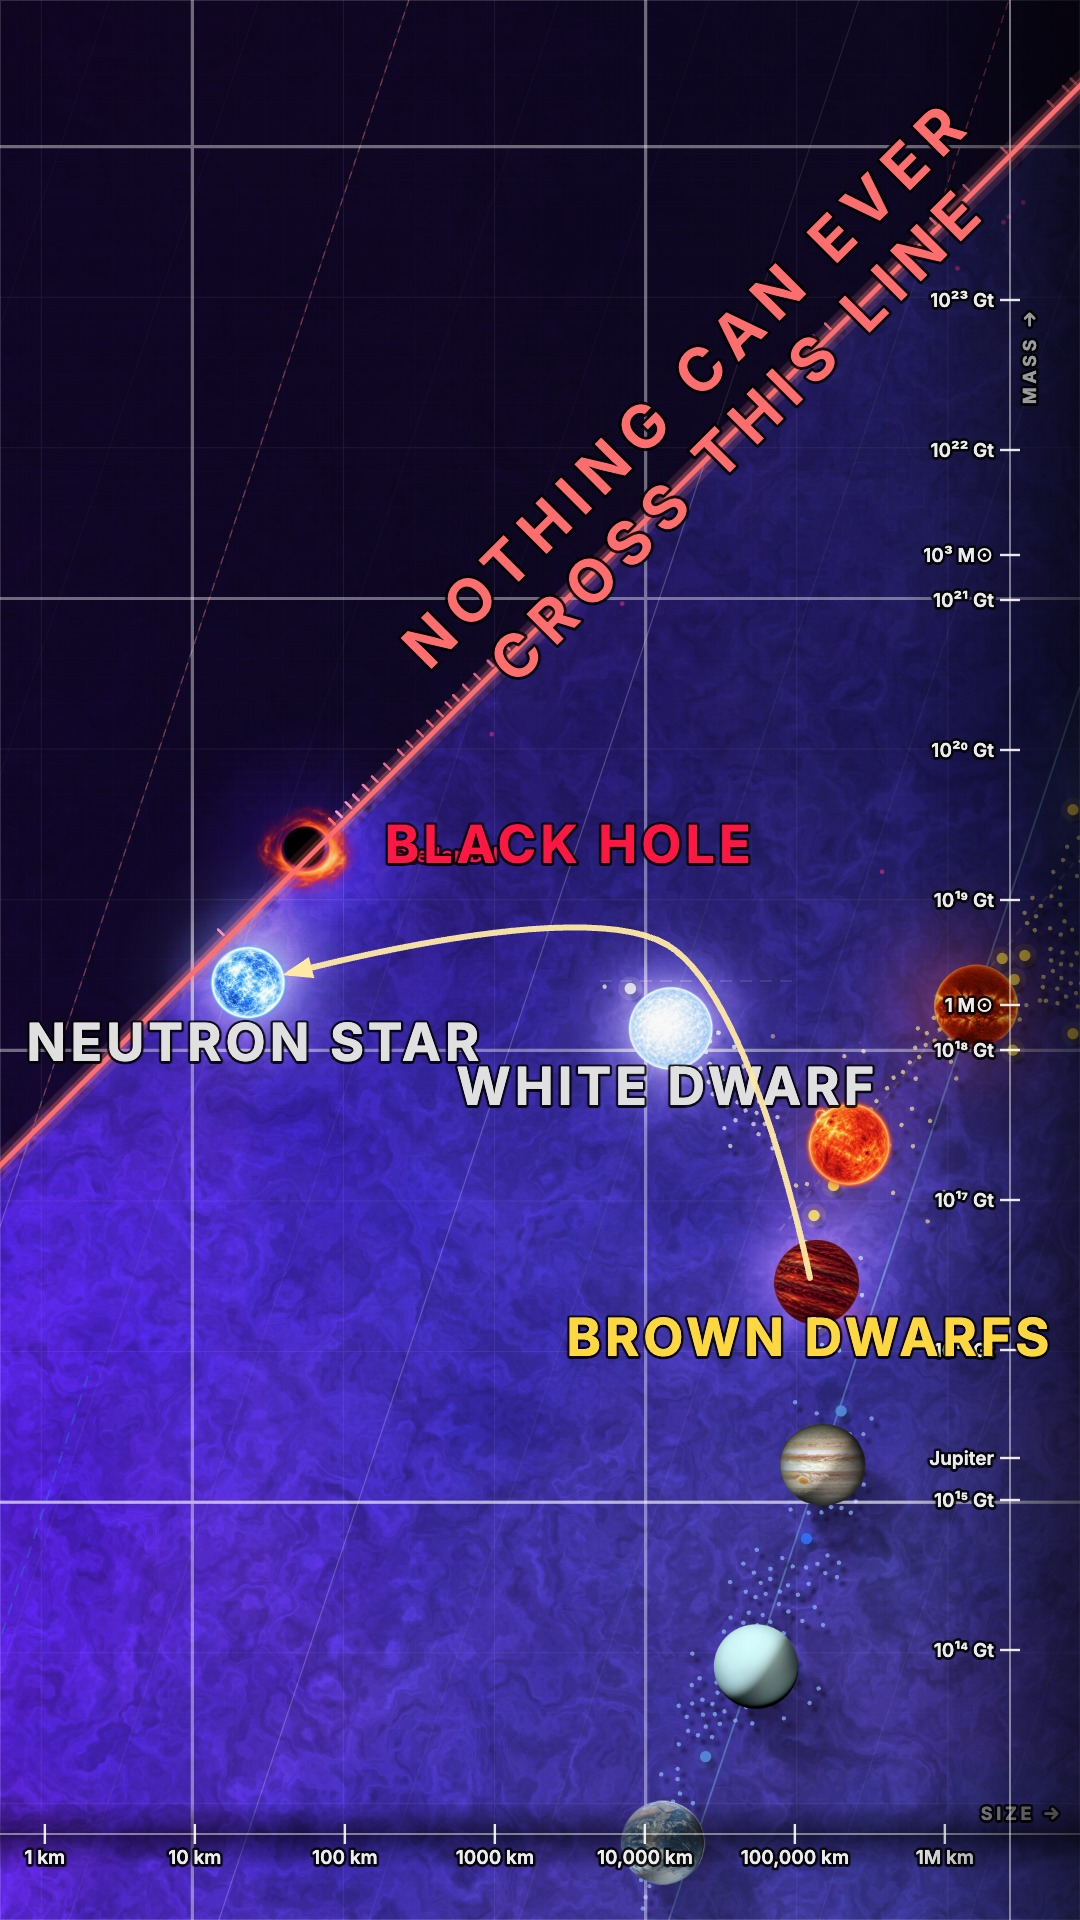
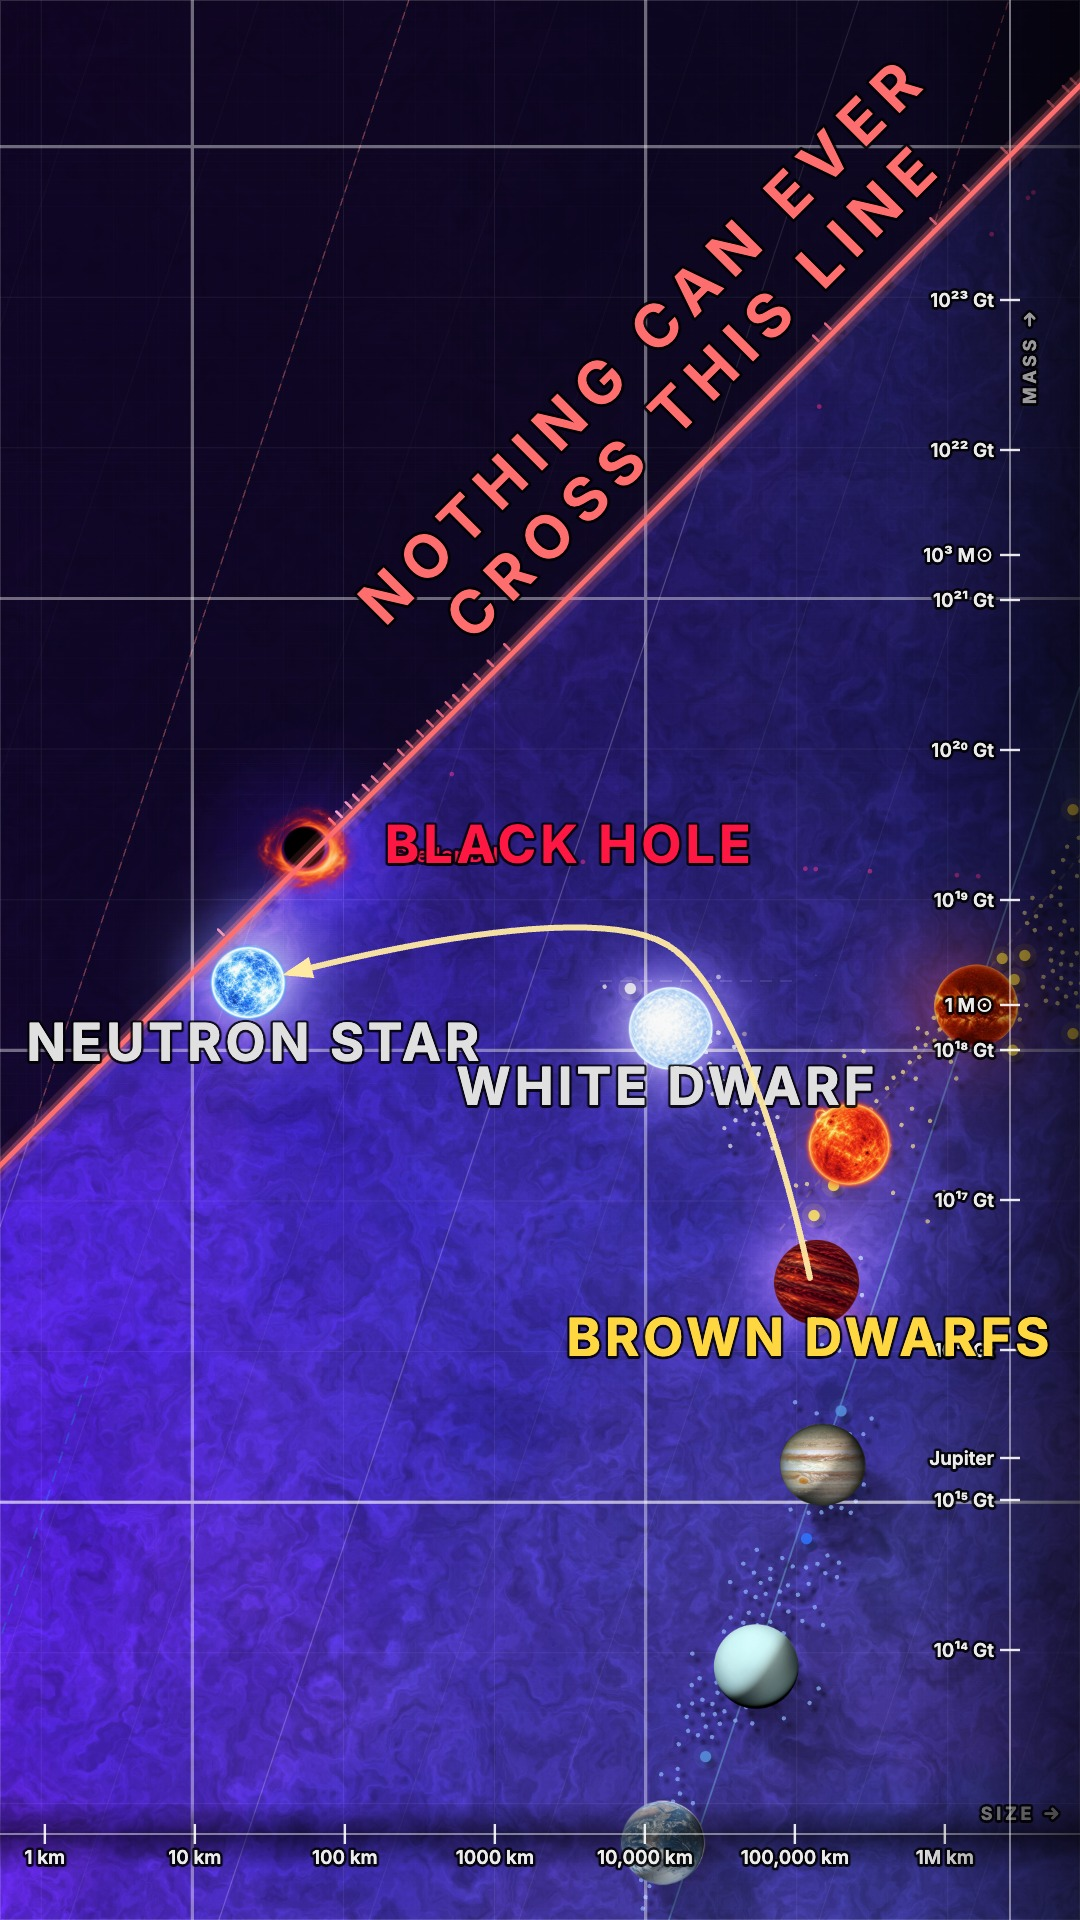
Thumbnails: "Everything" low between the water and air lines; "Nothing can ever cross this line" wholly on the dark side; the tools documented
A line's stacked label steps by its own font size (labelOffset: px further off). docs/narration.md
"Thumbnails": the scene's poster, npm run thumbnails -- <take>, a second checkout while renders
run. youtube-publish.py --update sends the thumbnail again too.

Changed region(s): [[0.3361, 0.0312, 0.9167, 0.375]]

diff --git a/src/narration-scenes/short-04-black-holes.js b/src/narration-scenes/short-04-black-holes.js
@@ -92,7 +92,7 @@ export default {
   // the YouTube thumbnail (scripts/narration-poster.mjs): in close on a white dwarf, a neutron star
   // and the black-hole line they lead to, and the question (the author, 2026-10-30)
   poster: { at: 3, set: { forceIcons: ["PSR J0030+0451", "White Dwarf", "Stellar BH", "T Brown Dwarf", "L Brown Dwarf"], hideLabels: ["T Brown Dwarf"] }, cues: [{ t: 0, cam: { r: 8.0, m: 33.6, span: 7.2 }, dur: 0.1, drift: 0, hl: [
-    { line: "schwarzschild", draw: 0.01, label: "nothing can ever\ncross this line", size: 30, labelAt: [9.3, 37.13] },
+    { line: "schwarzschild", draw: 0.01, label: "nothing can ever\ncross this line", size: 30, labelOffset: 8, labelAt: [9.3, 37.13] },
     { obj: "T Brown Dwarf", label: "brown dwarfs", place: "below", labelSize: 26 },
     { obj: "White Dwarf", label: "white dwarf", place: "below", labelSize: 26 },
     { obj: "PSR J0030+0451", label: "neutron star", place: "below", labelSize: 26 },

diff --git a/src/narration.js b/src/narration.js
@@ -1416,7 +1416,8 @@ export async function startNarration(app) {
       // "\n" stacks the label in lines above the line
       const lines = h.label.toUpperCase().split("\n");
       const t = el.append("text").attr("class", "narr-linelabel")
-        .attr("transform", `translate(${mid[0]},${mid[1]}) rotate(${a2}) translate(0,${-10 - 13 * (lines.length - 1)})`)
+        // stacked lines step by the font's own line height; labelOffset: px further off the line
+        .attr("transform", `translate(${mid[0]},${mid[1]}) rotate(${a2}) translate(0,${-10 - (h.labelOffset ?? 0) - (h.size ? 1.2 * h.size : 13) * (lines.length - 1)})`)
         .attr("text-anchor", "middle").attr("fill", col).attr("opacity", prog);
       if (h.size) t.style("font-size", `${h.size}px`);   // px (a thumbnail's bigger labels)
       lines.forEach((ln, i) => t.append("tspan").attr("x", 0).attr("dy", i ? "1.2em" : 0).text(ln));

diff --git a/src/narration-scenes/short-02-up-the-line.js b/src/narration-scenes/short-02-up-the-line.js
@@ -72,7 +72,7 @@ export default {
   // the YouTube thumbnail (scripts/narration-poster.mjs): in close on the water and air lines,
   // full of animals, balloons and aircraft, each side named (the author, 2026-10-30)
   poster: { at: 3, set: { iconDensity: 100 }, cues: [{ t: 0, cam: { r: 2.25, m: 6.3, span: 3.2 }, dur: 0.1, drift: 0, forceIcons: ANIMALS, hl: [
-    { ...WATER, draw: 0.01, label: "everything is here", size: 34, labelAt: [2.35, 7.67] }, { ...AIR, draw: 0.01 },
+    { ...WATER, draw: 0.01, label: "everything", size: 34, labelAt: [2.08, 4.7] }, { ...AIR, draw: 0.01 },
     { side: "left", label: "sinks", labelX: 0.2, labelY: 0.45, labelSize: 34 },
     { side: "right", label: "floats\nin water", labelX: 0.7, labelY: 0.3, labelSize: 30 },
     { side: "right", of: "air", color: "#a5d6a7", label: "floats\nin air", labelX: 0.78, labelY: 0.8, labelSize: 30 }] }] },

diff --git a/scripts/youtube-publish.py b/scripts/youtube-publish.py
@@ -5,7 +5,7 @@
     python3 scripts/youtube-publish.py --upload        # upload every video not yet uploaded
     python3 scripts/youtube-publish.py --upload --only short-01-hook
     python3 scripts/youtube-publish.py --captions-only # (re)write the .srt files, no upload
-    python3 scripts/youtube-publish.py --update        # rewrite titles/descriptions of uploaded videos
+    python3 scripts/youtube-publish.py --update        # rewrite titles/descriptions/thumbnails of uploaded videos
 
 Reads video/youtube.json (titles, blurbs, music, privacy, schedule), builds each
 description from video/DESCRIPTION.md and the track's credit (video/music/CREDITS.md),
@@ -177,7 +177,7 @@ def main():
                     help="upload again even if already uploaded; the earlier upload is deleted if it is still private")
     ap.add_argument("--captions-only", action="store_true", help="write output/videos/<take>.srt and stop")
     ap.add_argument("--update", action="store_true",
-                    help="rewrite title, description and tags of videos already uploaded (after editing youtube.json or DESCRIPTION.md)")
+                    help="rewrite title, description, tags and thumbnail of videos already uploaded (after editing youtube.json, DESCRIPTION.md or a poster)")
     a = ap.parse_args()
     m = load(MANIFEST)
     cfg, state = m["defaults"], load(STATE, {})
@@ -192,6 +192,10 @@ def main():
             cur = yt.videos().list(part="snippet", id=vid).execute()["items"][0]["snippet"]
             cur.update(title=v["title"], description=description(v), tags=v.get("tags", cfg["tags"]))
             yt.videos().update(part="snippet", body={"id": vid, "snippet": cur}).execute()
+            thumb = os.path.join(ROOT, "video", "thumbnails", f"{v['take']}.jpg")   # a re-made thumbnail too
+            if os.path.exists(thumb):
+                from googleapiclient.http import MediaFileUpload
+                yt.thumbnails().set(videoId=vid, media_body=MediaFileUpload(thumb, mimetype="image/jpeg")).execute()
             print(f"{v['take']}: updated https://youtu.be/{vid}")
         return
     yt = service() if a.upload and not a.captions_only else None

diff --git a/docs/narration.md b/docs/narration.md
@@ -283,6 +283,35 @@ and `window.__narr.pending()` counts the layer until it has drawn.
   whips), a static production build served instead of the dev server (faster page loads), and
   capturing at a lower JPEG quality for the sub-frames only.
 
+## Thumbnails
+
+Each short's YouTube thumbnail is a shot of the live chart, written in its scene as `poster`
+(see [Scene fields](#scene-fields)): a camera, highlights and labels, as cues, with no captions or
+narration. To change one, edit the scene's `poster` and run
+
+```
+node scripts/narration-poster.mjs short-01-hook [short-02-up-the-line …]
+```
+
+with the dev server up (`BASE`, default `http://localhost:5184`, the "shorts" preview; Chrome
+from `CHROME`). It stills each shot at 1080×1920 into `video/thumbnails/<take>.jpg`, which
+`scripts/youtube-publish.py` uploads, and sends again for videos already up with `--update --only <take>`. To look at a shot live, open
+`/?narrate=<take>&poster=1&captions=0&autoplay=0` and pause at the poster's `at`.
+Editing a scene hot-reloads every page of that dev server, a render's too: while a render runs,
+work on thumbnails in a second checkout with its own dev server (`git worktree add`, a
+`node_modules` symlink, `npx vite <dir> --port 5190`, `BASE=http://localhost:5190`).
+
+What the shots use, besides the usual highlights (the author's thumbnails, 2026-10-30):
+- `{ text: "Where do\nthese meet?", at: [r, m], size, instant: true }`: a free label, "\n" stacks it;
+- `{ line, label, size, labelAt: [r, m], labelOffset }`: a line's label, along it, at that point
+  (any point: off the line it's still turned to the line's angle), `labelOffset` px further off it;
+- `{ side, of, label, labelX, labelY, labelSize, color }`: one side of the water (or `of: "air"`)
+  line shaded, its label at those shares of the screen;
+- `{ obj, label, place, labelSize }`: an object's tag, bigger;
+- `{ arrow: true, from, to, via: [[r, m] | { obj, dr, dm }, …], width, color }`: a curved arrow
+  through the `via` points;
+- `set: { iconDensity, forceIcons, hideLabels, … }` in `poster`: scene fields for the shot alone.
+
 ## Notes for the next take (from the take 2 review)
 
 What worked: the condensed caption style, the new mic, and the bottom-edge ruler.
@@ -353,6 +382,10 @@ so the live figure shows through it, whole and as laid out. Both start at `from`
 the stage's width (default 1), centred on `surround` (the stage's dark), and zoom in together for `dur` s until the picture's plot
 (`frame`, spanning log radius `r` and log mass `m`) fills the screen; then the picture
 fades over `fade` s and the figure's camera eases into the scene's (the hook's AJP cover).
+
+`poster: { at, set?, cues }` is the take's YouTube thumbnail (see [Thumbnails](#thumbnails)):
+`&poster=1` plays those cues in place of the scene's (no cover), with `set` merged into the scene,
+and `scripts/narration-poster.mjs` stills it at `at` seconds.
 
 A scene is `src/narration-scenes/<take>.js`; a take picks it with `"scene"` in its
 words.json (default: the take's own name).

diff --git a/video/EXPORT.md b/video/EXPORT.md
@@ -40,7 +40,9 @@ here: it needs rendering again.
 
 `scripts/youtube-publish.py` uploads `output/videos/*.mp4` with the YouTube Data API:
 titles, blurbs, music and schedule in `video/youtube.json`, the description from
-`video/DESCRIPTION.md` and the track's credit, the take's thumb as thumbnail, captions
+`video/DESCRIPTION.md`, the track's credit and the photo credits, the take's thumbnail
+(`video/thumbnails/<take>.jpg`, made from the scene's `poster` shot by `npm run thumbnails -- <take>`;
+docs/narration.md, "Thumbnails"), captions
 from words.json, the playlist. Dry run by default; `--upload` sends, private unless
 `youtube.json` says otherwise. Uploaded IDs are kept in `video/youtube-uploads.json`.
 
